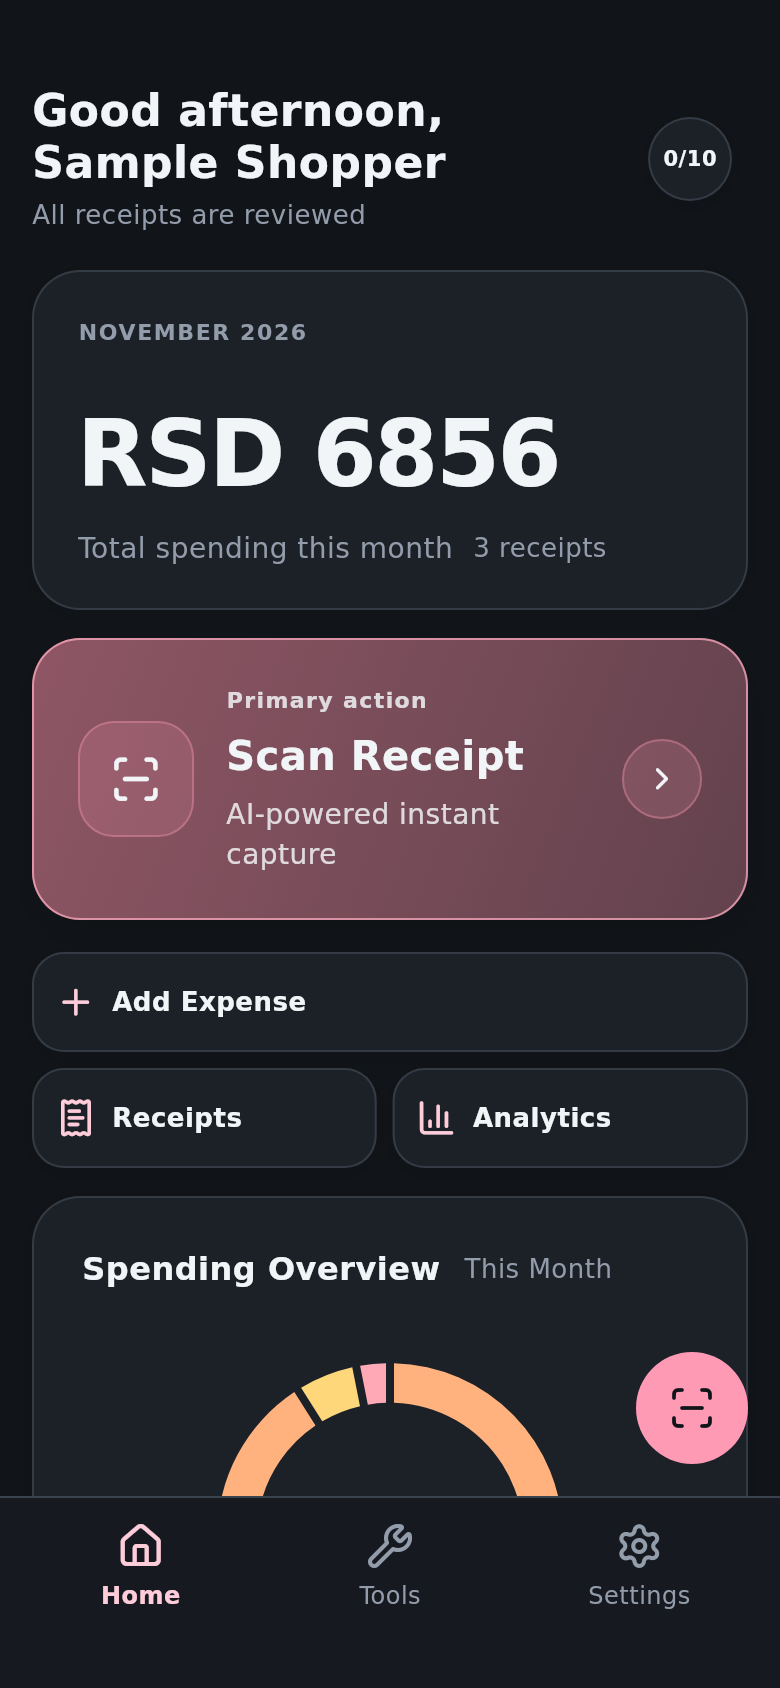
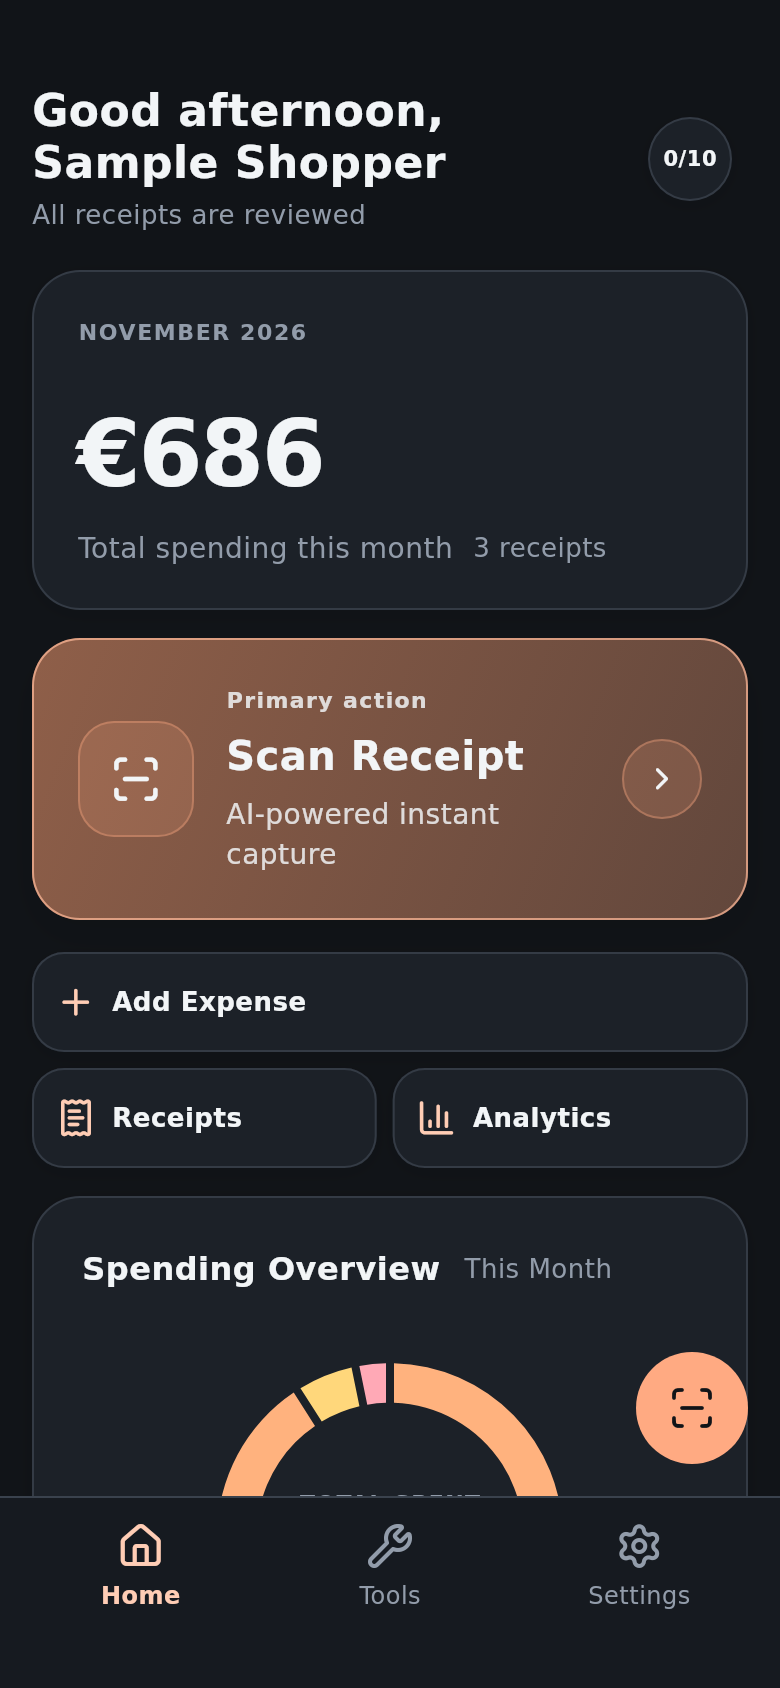
fix: center sign-in and simplify first-use tools guidance

diff --git a/expense_tracker_app/lib/screens/tools_screen.dart b/expense_tracker_app/lib/screens/tools_screen.dart
@@ -24,9 +24,11 @@ class ToolsScreen extends StatefulWidget {
 
 class _ToolsScreenState extends State<ToolsScreen> {
   static const _prefsKey = 'tools_pinned_ids_v1';
+  static const _pinHintDismissedKey = 'tools_pin_hint_dismissed';
   List<String> _pins = ['scan', 'receipts', 'analytics'];
   List<String> _savedPins = ['scan', 'receipts', 'analytics'];
   bool _ready = false;
+  bool _showPinHint = false;
   int _revision = 0;
   Future<void> _writes = Future.value();
 
@@ -44,6 +46,8 @@ class _ToolsScreenState extends State<ToolsScreen> {
       setState(() {
         if (pins != null) _pins = pins.toSet().toList();
         _savedPins = List.of(_pins);
+        _showPinHint =
+            pins == null && prefs.getBool(_pinHintDismissedKey) != true;
         _ready = true;
       });
     } catch (_) {
@@ -51,8 +55,20 @@ class _ToolsScreenState extends State<ToolsScreen> {
     }
   }
 
+  Future<void> _dismissPinHint() async {
+    if (!_showPinHint) return;
+    setState(() => _showPinHint = false);
+    try {
+      final prefs = await SharedPreferences.getInstance();
+      await prefs.setBool(_pinHintDismissedKey, true);
+    } catch (_) {
+      // The hint stays dismissed for this session if preferences fail to save.
+    }
+  }
+
   void _togglePin(String id) {
     if (!_ready) return;
+    _dismissPinHint();
     final revision = ++_revision;
     setState(() {
       _pins = List.of(_pins);
@@ -74,9 +90,9 @@ class _ToolsScreenState extends State<ToolsScreen> {
       } catch (_) {
         if (!mounted || revision != _revision) return;
         setState(() => _pins = List.of(_savedPins));
-        ScaffoldMessenger.of(
-          context,
-        ).showSnackBar(SnackBar(content: Text(context.tr('tools_pin_save_error'))));
+        ScaffoldMessenger.of(context).showSnackBar(
+          SnackBar(content: Text(context.tr('tools_pin_save_error'))),
+        );
       }
     });
   }
@@ -205,25 +221,40 @@ class _ToolsScreenState extends State<ToolsScreen> {
                 fontWeight: FontWeight.w800,
               ),
             ),
-            SizedBox(height: ShellStyles.scaled(context, 4, min: 3, max: 6)),
-            Text(
-              context.tr('tools_subtitle'),
-              style: TextStyle(
-                color: ShellStyles.textMuted(context),
-                fontSize: ShellStyles.scaled(context, 12.5, min: 12, max: 13.5),
-                height: 1.3,
+            const SizedBox(height: 16),
+            if (_showPinHint) ...[
+              Container(
+                padding: const EdgeInsetsDirectional.only(start: 12, end: 4),
+                decoration: ShellStyles.cardDecoration(context, radius: 16),
+                child: Row(
+                  children: [
+                    Icon(
+                      AppIcons.pin,
+                      color: ShellStyles.accentTone(context).foreground,
+                      size: 18,
+                    ),
+                    const SizedBox(width: 10),
+                    Expanded(
+                      child: Padding(
+                        padding: const EdgeInsets.symmetric(vertical: 10),
+                        child: Text(
+                          context.tr('tools_pin_hint'),
+                          style: Theme.of(context).textTheme.bodySmall,
+                        ),
+                      ),
+                    ),
+                    IconButton(
+                      tooltip: MaterialLocalizations.of(
+                        context,
+                      ).closeButtonTooltip,
+                      onPressed: _dismissPinHint,
+                      icon: const Icon(AppIcons.x, size: 18),
+                    ),
+                  ],
+                ),
               ),
-            ),
-            SizedBox(height: ShellStyles.scaled(context, 18, min: 14, max: 20)),
-            Text(
-              context.tr('tools_pin_hint'),
-              style: TextStyle(
-                color: ShellStyles.textMuted(context),
-                fontSize: 12,
-                height: 1.4,
-              ),
-            ),
-            const SizedBox(height: 12),
+              const SizedBox(height: 12),
+            ],
             if (pinned.isNotEmpty) ...[
               _buildToolSection(
                 context,
@@ -258,8 +289,8 @@ class _ToolsScreenState extends State<ToolsScreen> {
       crossAxisAlignment: CrossAxisAlignment.start,
       children: [
         Padding(
-          padding: EdgeInsets.only(
-            left: ShellStyles.scaled(context, 2, min: 0, max: 4),
+          padding: EdgeInsetsDirectional.only(
+            start: ShellStyles.scaled(context, 2, min: 0, max: 4),
             bottom: ShellStyles.scaled(context, 8, min: 6, max: 10),
           ),
           child: Text(

diff --git a/expense_tracker_app/test/adaptive_interface_test.dart b/expense_tracker_app/test/adaptive_interface_test.dart
@@ -818,6 +818,8 @@ void main() {
           tester.view.physicalSize = const Size(390, 844);
 
           await show(const LoginScreen(), 'readme-login');
+          final previewPrefs = await SharedPreferences.getInstance();
+          await previewPrefs.setBool('tools_pin_hint_dismissed', true);
           await http.runWithClient(
             () async {
               selectRootTab(0);
@@ -827,19 +829,55 @@ void main() {
               selectRootTab(0);
             },
             () => MockClient((request) async {
+              const breakdown = {
+                'FOOD': 624,
+                'ENTERTAINMENT': 40,
+                'PERSONAL_CARE': 22,
+              };
+              if (request.url.path == '/v1/me') {
+                return http.Response(
+                  '{"default_currency":"EUR","profile":{"display_name":"Sample Shopper"}}',
+                  200,
+                );
+              }
+              if (request.url.path.endsWith('/summary')) {
+                return http.Response(
+                  jsonEncode({
+                    'currency': 'EUR',
+                    'total_amount': 686,
+                    'breakdown': [
+                      for (final entry in breakdown.entries)
+                        {
+                          'code': entry.key,
+                          'amount': entry.value,
+                          'percentage': 100 * entry.value / 686,
+                        },
+                    ],
+                  }),
+                  200,
+                );
+              }
               if (request.url.path == '/v1/transactions') {
                 final occurredAt = DateTime.now().toUtc().toIso8601String();
                 return http.Response(
                   jsonEncode([
-                    for (final id in ['one', 'two', 'three'])
-                      {...tx(id), 'occurred_at': occurredAt},
+                    for (final entry in breakdown.entries)
+                      {
+                        ...tx(entry.key),
+                        'occurred_at': occurredAt,
+                        'category_code': entry.key,
+                        'amount_total': entry.value,
+                        'display_amount_total': entry.value,
+                        'currency': 'EUR',
+                      },
                   ]),
                   200,
                 );
               }
-              return homeSpendingResponse(request);
+              return response(request);
             }),
           );
+          await previewPrefs.remove('tools_pin_hint_dismissed');
 
           await show(const Scaffold(body: ReceiptsTab()), 'history-100');
           await show(

diff --git a/expense_tracker_app/lib/screens/login_screen.dart b/expense_tracker_app/lib/screens/login_screen.dart
@@ -1,4 +1,5 @@
 import 'dart:async';
+import 'dart:math' as math;
 
 import 'package:firebase_auth/firebase_auth.dart';
 import 'package:flutter/foundation.dart';
@@ -114,14 +115,16 @@ class _LoginScreenState extends State<LoginScreen> {
 
   @override
   Widget build(BuildContext context) {
-    final compactHeight =
-        MediaQuery.sizeOf(context).height < 690 ||
-        MediaQuery.textScalerOf(context).scale(14) > 18;
     final bottomSafePadding = MediaQuery.viewPaddingOf(context).bottom;
+    final safePadding = MediaQuery.paddingOf(context);
+    final horizontalPadding =
+        20.0 + math.max(safePadding.left, safePadding.right);
 
     return Scaffold(
       backgroundColor: ShellStyles.background(context),
       body: SafeArea(
+        left: false,
+        right: false,
         bottom: false,
         child: LayoutBuilder(
           builder: (context, constraints) {
@@ -130,19 +133,21 @@ class _LoginScreenState extends State<LoginScreen> {
                 constraints: BoxConstraints(minHeight: constraints.maxHeight),
                 child: Padding(
                   padding: EdgeInsets.fromLTRB(
-                    20,
-                    compactHeight ? 36 : 144,
-                    20,
+                    horizontalPadding,
+                    24,
+                    horizontalPadding,
                     bottomSafePadding + 24,
                   ),
                   child: Column(
                     mainAxisAlignment: MainAxisAlignment.spaceBetween,
                     children: [
+                      // Share the spare space above and below the sign-in group.
+                      const SizedBox.shrink(),
                       Column(
                         mainAxisSize: MainAxisSize.min,
                         children: [
                           const _BrandLockup(),
-                          SizedBox(height: compactHeight ? 24 : 32),
+                          const SizedBox(height: 24),
                           _SignInCard(
                             isLoading: _isLoading,
                             onSignIn: _isLoading ? null : _signInWithGoogle,
@@ -166,7 +171,7 @@ class _LoginScreenState extends State<LoginScreen> {
                         ],
                       ),
                       Padding(
-                        padding: EdgeInsets.only(top: compactHeight ? 32 : 72),
+                        padding: const EdgeInsets.only(top: 24),
                         child: _LegalFooter(
                           onOpenTerms: _openTerms,
                           onOpenPrivacy: _openPrivacy,

diff --git a/expense_tracker_app/test/adaptive_text_layout_test.dart b/expense_tracker_app/test/adaptive_text_layout_test.dart
@@ -24,6 +24,22 @@ void main() {
     await themeProvider.load();
   });
 
+  testWidgets('sign-in card stays centered with unequal side insets', (
+    tester,
+  ) async {
+    fixture.phone(tester, width: 370);
+    const insets = FakeViewPadding(top: 24, bottom: 24, left: 8, right: 32);
+    tester.view.padding = insets;
+    tester.view.viewPadding = insets;
+    await tester.pumpWidget(fixture.app(const LoginScreen()));
+    await tester.pumpAndSettle();
+
+    final button = tester.getRect(find.byType(OutlinedButton));
+    expect(button.center.dx, closeTo(185, .01));
+    expect(button.right, lessThan(370 - insets.right));
+    expect(tester.takeException(), isNull);
+  });
+
   for (final locale in [
     const Locale('en'),
     const Locale('de'),

diff --git a/expense_tracker_app/test/tool_pinning_test.dart b/expense_tracker_app/test/tool_pinning_test.dart
@@ -24,6 +24,20 @@ void main() {
     await themeProvider.load();
   });
 
+  testWidgets('pin guidance does not return after dismissal', (tester) async {
+    await showTools(tester);
+    final hint = find.text('Hold a tool to pin or unpin it.');
+    expect(hint, findsOneWidget);
+    await tester.tap(find.byIcon(AppIcons.x));
+    await tester.pumpAndSettle();
+    expect(hint, findsNothing);
+
+    await tester.pumpWidget(const SizedBox.shrink());
+    await tester.pumpWidget(fixture.app(const Scaffold(body: ToolsScreen())));
+    await tester.pumpAndSettle();
+    expect(hint, findsNothing);
+  });
+
   testWidgets('long press pins once, unpins, and remembers pin order', (
     tester,
   ) async {
